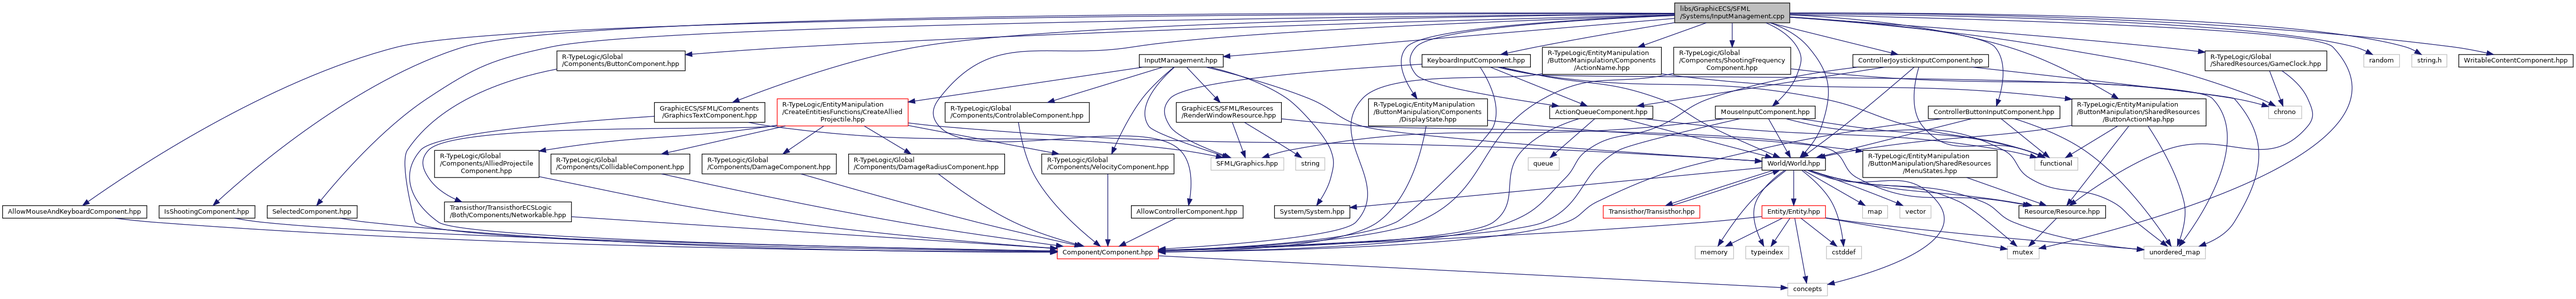
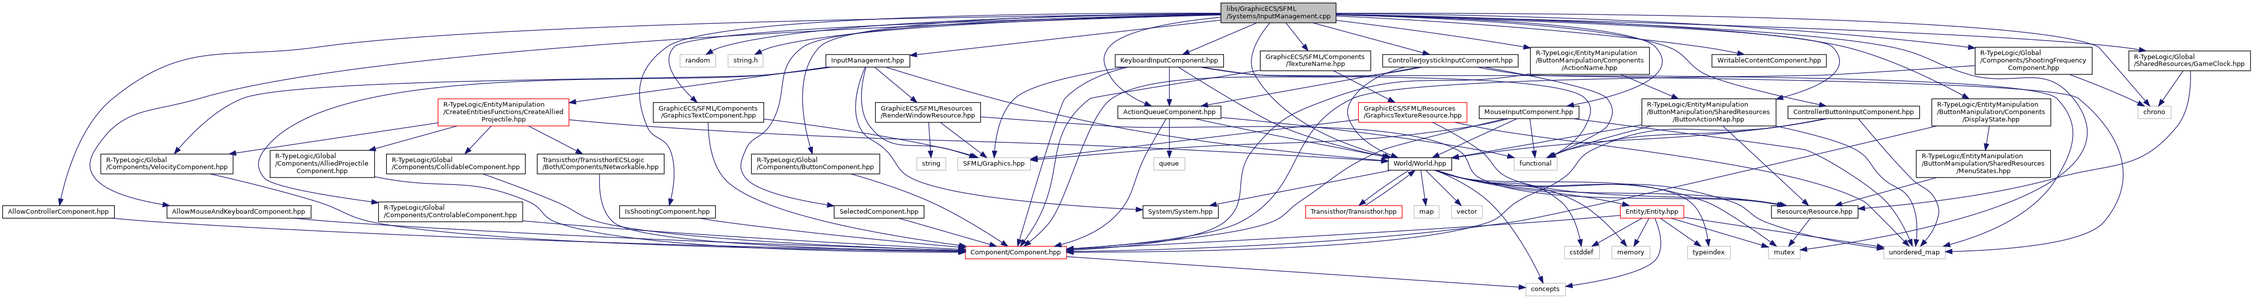
Deploying to gh-pages from @ R-Type-Epitech-Nantes/R-Type@a9325ae3ad3686e45d82f800c95eaac0cde15a89 🚀

diff --git a/dir_000017_000015.html b/dir_000017_000015.html
@@ -83,7 +83,7 @@ $(document).ready(function(){initNavTree('dir_cbf7d74840da66ee0c9a24bf60bc6994.h
 </div>
 
 <div class="contents">
-<h3>Systems &rarr; Components Relation</h3><table class="dirtab"><tr class="dirtab"><th class="dirtab">File in libs/GraphicECS/SFML/Systems</th><th class="dirtab">Includes file in libs/GraphicECS/SFML/Components</th></tr><tr class="dirtab"><td class="dirtab"><a class="el" href="_animation_system_8cpp.html">AnimationSystem.cpp</a></td><td class="dirtab"><a class="el" href="_animation_component_8hpp.html">AnimationComponent.hpp</a></td></tr><tr class="dirtab"><td class="dirtab"><a class="el" href="_animation_system_8cpp.html">AnimationSystem.cpp</a></td><td class="dirtab"><a class="el" href="_animation_frequency_component_8hpp.html">AnimationFrequencyComponent.hpp</a></td></tr><tr class="dirtab"><td class="dirtab"><a class="el" href="_animation_system_8cpp.html">AnimationSystem.cpp</a></td><td class="dirtab"><a class="el" href="_graphics_rectangle_component_8hpp.html">GraphicsRectangleComponent.hpp</a></td></tr><tr class="dirtab"><td class="dirtab"><a class="el" href="_draw_components_8cpp.html">DrawComponents.cpp</a></td><td class="dirtab"><a class="el" href="_animation_component_8hpp.html">AnimationComponent.hpp</a></td></tr><tr class="dirtab"><td class="dirtab"><a class="el" href="_draw_components_8cpp.html">DrawComponents.cpp</a></td><td class="dirtab"><a class="el" href="_animation_frequency_component_8hpp.html">AnimationFrequencyComponent.hpp</a></td></tr><tr class="dirtab"><td class="dirtab"><a class="el" href="_draw_components_8cpp.html">DrawComponents.cpp</a></td><td class="dirtab"><a class="el" href="_chat_message_component_8hpp.html">ChatMessageComponent.hpp</a></td></tr><tr class="dirtab"><td class="dirtab"><a class="el" href="_draw_components_8cpp.html">DrawComponents.cpp</a></td><td class="dirtab"><a class="el" href="_graphics_rectangle_component_8hpp.html">GraphicsRectangleComponent.hpp</a></td></tr><tr class="dirtab"><td class="dirtab"><a class="el" href="_draw_components_8cpp.html">DrawComponents.cpp</a></td><td class="dirtab"><a class="el" href="_graphics_text_component_8hpp.html">GraphicsTextComponent.hpp</a></td></tr><tr class="dirtab"><td class="dirtab"><a class="el" href="_draw_components_8cpp.html">DrawComponents.cpp</a></td><td class="dirtab"><a class="el" href="_texture_name_8hpp.html">TextureName.hpp</a></td></tr><tr class="dirtab"><td class="dirtab"><a class="el" href="_draw_components_8cpp.html">DrawComponents.cpp</a></td><td class="dirtab"><a class="el" href="_writable_content_component_8hpp.html">WritableContentComponent.hpp</a></td></tr><tr class="dirtab"><td class="dirtab"><a class="el" href="_input_management_8cpp.html">InputManagement.cpp</a></td><td class="dirtab"><a class="el" href="_action_queue_component_8hpp.html">ActionQueueComponent.hpp</a></td></tr><tr class="dirtab"><td class="dirtab"><a class="el" href="_input_management_8cpp.html">InputManagement.cpp</a></td><td class="dirtab"><a class="el" href="_allow_controller_component_8hpp.html">AllowControllerComponent.hpp</a></td></tr><tr class="dirtab"><td class="dirtab"><a class="el" href="_input_management_8cpp.html">InputManagement.cpp</a></td><td class="dirtab"><a class="el" href="_allow_mouse_and_keyboard_component_8hpp.html">AllowMouseAndKeyboardComponent.hpp</a></td></tr><tr class="dirtab"><td class="dirtab"><a class="el" href="_input_management_8cpp.html">InputManagement.cpp</a></td><td class="dirtab"><a class="el" href="_controller_button_input_component_8hpp.html">ControllerButtonInputComponent.hpp</a></td></tr><tr class="dirtab"><td class="dirtab"><a class="el" href="_input_management_8cpp.html">InputManagement.cpp</a></td><td class="dirtab"><a class="el" href="_controller_joystick_input_component_8hpp.html">ControllerJoystickInputComponent.hpp</a></td></tr><tr class="dirtab"><td class="dirtab"><a class="el" href="_input_management_8cpp.html">InputManagement.cpp</a></td><td class="dirtab"><a class="el" href="_graphics_text_component_8hpp.html">GraphicsTextComponent.hpp</a></td></tr><tr class="dirtab"><td class="dirtab"><a class="el" href="_input_management_8cpp.html">InputManagement.cpp</a></td><td class="dirtab"><a class="el" href="_is_shooting_component_8hpp.html">IsShootingComponent.hpp</a></td></tr><tr class="dirtab"><td class="dirtab"><a class="el" href="_input_management_8cpp.html">InputManagement.cpp</a></td><td class="dirtab"><a class="el" href="_keyboard_input_component_8hpp.html">KeyboardInputComponent.hpp</a></td></tr><tr class="dirtab"><td class="dirtab"><a class="el" href="_input_management_8cpp.html">InputManagement.cpp</a></td><td class="dirtab"><a class="el" href="_mouse_input_component_8hpp.html">MouseInputComponent.hpp</a></td></tr><tr class="dirtab"><td class="dirtab"><a class="el" href="_input_management_8cpp.html">InputManagement.cpp</a></td><td class="dirtab"><a class="el" href="_selected_component_8hpp.html">SelectedComponent.hpp</a></td></tr><tr class="dirtab"><td class="dirtab"><a class="el" href="_input_management_8cpp.html">InputManagement.cpp</a></td><td class="dirtab"><a class="el" href="_writable_content_component_8hpp.html">WritableContentComponent.hpp</a></td></tr><tr class="dirtab"><td class="dirtab"><a class="el" href="_music_management_8hpp.html">MusicManagement.hpp</a></td><td class="dirtab"><a class="el" href="_music_component_8hpp.html">MusicComponent.hpp</a></td></tr><tr class="dirtab"><td class="dirtab"><a class="el" href="_parallax_system_8cpp.html">ParallaxSystem.cpp</a></td><td class="dirtab"><a class="el" href="_parallax_component_8hpp.html">ParallaxComponent.hpp</a></td></tr><tr class="dirtab"><td class="dirtab"><a class="el" href="_remove_chat_system_8cpp.html">RemoveChatSystem.cpp</a></td><td class="dirtab"><a class="el" href="_chat_message_component_8hpp.html">ChatMessageComponent.hpp</a></td></tr><tr class="dirtab"><td class="dirtab"><a class="el" href="_remove_chat_system_8cpp.html">RemoveChatSystem.cpp</a></td><td class="dirtab"><a class="el" href="_chat_message_life_component_8hpp.html">ChatMessageLifeComponent.hpp</a></td></tr><tr class="dirtab"><td class="dirtab"><a class="el" href="_sf_object_follow_entity_system_8hpp.html">SfObjectFollowEntitySystem.hpp</a></td><td class="dirtab"><a class="el" href="_graphics_rectangle_component_8hpp.html">GraphicsRectangleComponent.hpp</a></td></tr><tr class="dirtab"><td class="dirtab"><a class="el" href="_sf_object_follow_entity_system_8hpp.html">SfObjectFollowEntitySystem.hpp</a></td><td class="dirtab"><a class="el" href="_graphics_text_component_8hpp.html">GraphicsTextComponent.hpp</a></td></tr><tr class="dirtab"><td class="dirtab"><a class="el" href="_sound_management_8hpp.html">SoundManagement.hpp</a></td><td class="dirtab"><a class="el" href="_sound_component_8hpp.html">SoundComponent.hpp</a></td></tr></table></div><!-- contents -->
+<h3>Systems &rarr; Components Relation</h3><table class="dirtab"><tr class="dirtab"><th class="dirtab">File in libs/GraphicECS/SFML/Systems</th><th class="dirtab">Includes file in libs/GraphicECS/SFML/Components</th></tr><tr class="dirtab"><td class="dirtab"><a class="el" href="_animation_system_8cpp.html">AnimationSystem.cpp</a></td><td class="dirtab"><a class="el" href="_animation_component_8hpp.html">AnimationComponent.hpp</a></td></tr><tr class="dirtab"><td class="dirtab"><a class="el" href="_animation_system_8cpp.html">AnimationSystem.cpp</a></td><td class="dirtab"><a class="el" href="_animation_frequency_component_8hpp.html">AnimationFrequencyComponent.hpp</a></td></tr><tr class="dirtab"><td class="dirtab"><a class="el" href="_animation_system_8cpp.html">AnimationSystem.cpp</a></td><td class="dirtab"><a class="el" href="_graphics_rectangle_component_8hpp.html">GraphicsRectangleComponent.hpp</a></td></tr><tr class="dirtab"><td class="dirtab"><a class="el" href="_draw_components_8cpp.html">DrawComponents.cpp</a></td><td class="dirtab"><a class="el" href="_animation_component_8hpp.html">AnimationComponent.hpp</a></td></tr><tr class="dirtab"><td class="dirtab"><a class="el" href="_draw_components_8cpp.html">DrawComponents.cpp</a></td><td class="dirtab"><a class="el" href="_animation_frequency_component_8hpp.html">AnimationFrequencyComponent.hpp</a></td></tr><tr class="dirtab"><td class="dirtab"><a class="el" href="_draw_components_8cpp.html">DrawComponents.cpp</a></td><td class="dirtab"><a class="el" href="_chat_message_component_8hpp.html">ChatMessageComponent.hpp</a></td></tr><tr class="dirtab"><td class="dirtab"><a class="el" href="_draw_components_8cpp.html">DrawComponents.cpp</a></td><td class="dirtab"><a class="el" href="_graphics_rectangle_component_8hpp.html">GraphicsRectangleComponent.hpp</a></td></tr><tr class="dirtab"><td class="dirtab"><a class="el" href="_draw_components_8cpp.html">DrawComponents.cpp</a></td><td class="dirtab"><a class="el" href="_graphics_text_component_8hpp.html">GraphicsTextComponent.hpp</a></td></tr><tr class="dirtab"><td class="dirtab"><a class="el" href="_draw_components_8cpp.html">DrawComponents.cpp</a></td><td class="dirtab"><a class="el" href="_texture_name_8hpp.html">TextureName.hpp</a></td></tr><tr class="dirtab"><td class="dirtab"><a class="el" href="_draw_components_8cpp.html">DrawComponents.cpp</a></td><td class="dirtab"><a class="el" href="_writable_content_component_8hpp.html">WritableContentComponent.hpp</a></td></tr><tr class="dirtab"><td class="dirtab"><a class="el" href="_input_management_8cpp.html">InputManagement.cpp</a></td><td class="dirtab"><a class="el" href="_action_queue_component_8hpp.html">ActionQueueComponent.hpp</a></td></tr><tr class="dirtab"><td class="dirtab"><a class="el" href="_input_management_8cpp.html">InputManagement.cpp</a></td><td class="dirtab"><a class="el" href="_allow_controller_component_8hpp.html">AllowControllerComponent.hpp</a></td></tr><tr class="dirtab"><td class="dirtab"><a class="el" href="_input_management_8cpp.html">InputManagement.cpp</a></td><td class="dirtab"><a class="el" href="_allow_mouse_and_keyboard_component_8hpp.html">AllowMouseAndKeyboardComponent.hpp</a></td></tr><tr class="dirtab"><td class="dirtab"><a class="el" href="_input_management_8cpp.html">InputManagement.cpp</a></td><td class="dirtab"><a class="el" href="_controller_button_input_component_8hpp.html">ControllerButtonInputComponent.hpp</a></td></tr><tr class="dirtab"><td class="dirtab"><a class="el" href="_input_management_8cpp.html">InputManagement.cpp</a></td><td class="dirtab"><a class="el" href="_controller_joystick_input_component_8hpp.html">ControllerJoystickInputComponent.hpp</a></td></tr><tr class="dirtab"><td class="dirtab"><a class="el" href="_input_management_8cpp.html">InputManagement.cpp</a></td><td class="dirtab"><a class="el" href="_graphics_text_component_8hpp.html">GraphicsTextComponent.hpp</a></td></tr><tr class="dirtab"><td class="dirtab"><a class="el" href="_input_management_8cpp.html">InputManagement.cpp</a></td><td class="dirtab"><a class="el" href="_is_shooting_component_8hpp.html">IsShootingComponent.hpp</a></td></tr><tr class="dirtab"><td class="dirtab"><a class="el" href="_input_management_8cpp.html">InputManagement.cpp</a></td><td class="dirtab"><a class="el" href="_keyboard_input_component_8hpp.html">KeyboardInputComponent.hpp</a></td></tr><tr class="dirtab"><td class="dirtab"><a class="el" href="_input_management_8cpp.html">InputManagement.cpp</a></td><td class="dirtab"><a class="el" href="_mouse_input_component_8hpp.html">MouseInputComponent.hpp</a></td></tr><tr class="dirtab"><td class="dirtab"><a class="el" href="_input_management_8cpp.html">InputManagement.cpp</a></td><td class="dirtab"><a class="el" href="_selected_component_8hpp.html">SelectedComponent.hpp</a></td></tr><tr class="dirtab"><td class="dirtab"><a class="el" href="_input_management_8cpp.html">InputManagement.cpp</a></td><td class="dirtab"><a class="el" href="_texture_name_8hpp.html">TextureName.hpp</a></td></tr><tr class="dirtab"><td class="dirtab"><a class="el" href="_input_management_8cpp.html">InputManagement.cpp</a></td><td class="dirtab"><a class="el" href="_writable_content_component_8hpp.html">WritableContentComponent.hpp</a></td></tr><tr class="dirtab"><td class="dirtab"><a class="el" href="_music_management_8hpp.html">MusicManagement.hpp</a></td><td class="dirtab"><a class="el" href="_music_component_8hpp.html">MusicComponent.hpp</a></td></tr><tr class="dirtab"><td class="dirtab"><a class="el" href="_parallax_system_8cpp.html">ParallaxSystem.cpp</a></td><td class="dirtab"><a class="el" href="_parallax_component_8hpp.html">ParallaxComponent.hpp</a></td></tr><tr class="dirtab"><td class="dirtab"><a class="el" href="_remove_chat_system_8cpp.html">RemoveChatSystem.cpp</a></td><td class="dirtab"><a class="el" href="_chat_message_component_8hpp.html">ChatMessageComponent.hpp</a></td></tr><tr class="dirtab"><td class="dirtab"><a class="el" href="_remove_chat_system_8cpp.html">RemoveChatSystem.cpp</a></td><td class="dirtab"><a class="el" href="_chat_message_life_component_8hpp.html">ChatMessageLifeComponent.hpp</a></td></tr><tr class="dirtab"><td class="dirtab"><a class="el" href="_sf_object_follow_entity_system_8hpp.html">SfObjectFollowEntitySystem.hpp</a></td><td class="dirtab"><a class="el" href="_graphics_rectangle_component_8hpp.html">GraphicsRectangleComponent.hpp</a></td></tr><tr class="dirtab"><td class="dirtab"><a class="el" href="_sf_object_follow_entity_system_8hpp.html">SfObjectFollowEntitySystem.hpp</a></td><td class="dirtab"><a class="el" href="_graphics_text_component_8hpp.html">GraphicsTextComponent.hpp</a></td></tr><tr class="dirtab"><td class="dirtab"><a class="el" href="_sound_management_8hpp.html">SoundManagement.hpp</a></td><td class="dirtab"><a class="el" href="_sound_component_8hpp.html">SoundComponent.hpp</a></td></tr></table></div><!-- contents -->
 </div><!-- doc-content -->
 <!-- start footer part -->
 <div id="nav-path" class="navpath"><!-- id is needed for treeview function! -->

diff --git a/_input_management_8cpp.html b/_input_management_8cpp.html
@@ -100,6 +100,7 @@ $(document).ready(function(){initNavTree('_input_management_8cpp.html',''); init
 <code>#include &quot;<a class="el" href="_controller_button_input_component_8hpp_source.html">ControllerButtonInputComponent.hpp</a>&quot;</code><br />
 <code>#include &quot;<a class="el" href="_controller_joystick_input_component_8hpp_source.html">ControllerJoystickInputComponent.hpp</a>&quot;</code><br />
 <code>#include &quot;<a class="el" href="_graphics_text_component_8hpp_source.html">GraphicECS/SFML/Components/GraphicsTextComponent.hpp</a>&quot;</code><br />
+<code>#include &quot;<a class="el" href="_texture_name_8hpp_source.html">GraphicECS/SFML/Components/TextureName.hpp</a>&quot;</code><br />
 <code>#include &quot;<a class="el" href="_is_shooting_component_8hpp_source.html">IsShootingComponent.hpp</a>&quot;</code><br />
 <code>#include &quot;<a class="el" href="_keyboard_input_component_8hpp_source.html">KeyboardInputComponent.hpp</a>&quot;</code><br />
 <code>#include &quot;<a class="el" href="_mouse_input_component_8hpp_source.html">MouseInputComponent.hpp</a>&quot;</code><br />
@@ -117,56 +118,56 @@ Include dependency graph for InputManagement.cpp:</div>
 <div class="dyncontent">
 <div class="center"><img src="_input_management_8cpp__incl.png" border="0" usemap="#alibs_2_graphic_e_c_s_2_s_f_m_l_2_systems_2_input_management_8cpp" alt=""/></div>
 <map name="alibs_2_graphic_e_c_s_2_s_f_m_l_2_systems_2_input_management_8cpp" id="alibs_2_graphic_e_c_s_2_s_f_m_l_2_systems_2_input_management_8cpp">
-<area shape="rect" title=" " alt="" coords="3376,5,3608,47"/>
-<area shape="rect" href="_input_management_8hpp.html" title=" " alt="" coords="2297,109,2466,136"/>
-<area shape="rect" title=" " alt="" coords="4047,496,4111,523"/>
-<area shape="rect" href="_world_8hpp.html" title=" " alt="" coords="3552,317,3680,344"/>
-<area shape="rect" title=" " alt="" coords="4573,213,4640,240"/>
-<area shape="rect" title=" " alt="" coords="4765,109,4837,136"/>
-<area shape="rect" title=" " alt="" coords="4862,109,4933,136"/>
-<area shape="rect" href="_action_queue_component_8hpp.html" title=" " alt="" coords="3124,213,3332,240"/>
-<area shape="rect" href="_allow_controller_component_8hpp.html" title=" " alt="" coords="2281,414,2506,441"/>
-<area shape="rect" href="_allow_mouse_and_keyboard_component_8hpp.html" title=" " alt="" coords="5,414,296,441"/>
-<area shape="rect" href="_controller_button_input_component_8hpp.html" title=" " alt="" coords="3887,213,4153,240"/>
-<area shape="rect" href="_controller_joystick_input_component_8hpp.html" title=" " alt="" coords="3735,109,4009,136"/>
-<area shape="rect" href="_graphics_text_component_8hpp.html" title=" " alt="" coords="1319,206,1542,247"/>
-<area shape="rect" href="_is_shooting_component_8hpp.html" title=" " alt="" coords="321,414,514,441"/>
-<area shape="rect" href="_keyboard_input_component_8hpp.html" title=" " alt="" coords="2867,109,3085,136"/>
-<area shape="rect" href="_mouse_input_component_8hpp.html" title=" " alt="" coords="3458,213,3659,240"/>
-<area shape="rect" href="_selected_component_8hpp.html" title=" " alt="" coords="539,414,720,441"/>
-<area shape="rect" href="_writable_content_component_8hpp.html" title=" " alt="" coords="4957,109,5187,136"/>
-<area shape="rect" href="_action_name_8hpp.html" title=" " alt="" coords="3109,95,3349,151"/>
-<area shape="rect" href="_button_action_map_8hpp.html" title=" " alt="" coords="4177,199,4447,255"/>
-<area shape="rect" href="_display_state_8hpp.html" title=" " alt="" coords="2759,199,2999,255"/>
-<area shape="rect" href="_button_component_8hpp.html" title=" " alt="" coords="1123,102,1381,143"/>
-<area shape="rect" href="_shooting_frequency_component_8hpp.html" title=" " alt="" coords="3374,95,3610,151"/>
-<area shape="rect" href="_game_clock_8hpp.html" title=" " alt="" coords="4445,102,4691,143"/>
-<area shape="rect" title=" " alt="" coords="2441,317,2588,344"/>
-<area shape="rect" href="_render_window_resource_8hpp.html" title=" " alt="" coords="2371,206,2583,247"/>
-<area shape="rect" href="_system_8hpp.html" title=" " alt="" coords="2569,414,2721,441"/>
-<area shape="rect" href="_create_allied_projectile_8hpp.html" title=" " alt="" coords="1567,199,1831,255"/>
-<area shape="rect" href="_velocity_component_8hpp.html" title=" " alt="" coords="2100,310,2367,351"/>
-<area shape="rect" href="_controlable_component_8hpp.html" title=" " alt="" coords="1905,206,2196,247"/>
-<area shape="rect" title=" " alt="" coords="2612,317,2671,344"/>
-<area shape="rect" href="_resource_8hpp.html" title=" " alt="" coords="4070,414,4245,441"/>
-<area shape="rect" title=" " alt="" coords="3604,571,3684,597"/>
-<area shape="rect" title=" " alt="" coords="3682,496,3753,523"/>
-<area shape="rect" title=" " alt="" coords="3755,414,3805,441"/>
-<area shape="rect" title=" " alt="" coords="3417,496,3495,523"/>
-<area shape="rect" title=" " alt="" coords="3519,496,3606,523"/>
-<area shape="rect" title=" " alt="" coords="3830,414,3893,441"/>
-<area shape="rect" href="_entity_8hpp.html" title=" " alt="" coords="3552,414,3680,441"/>
-<area shape="rect" title=" " alt="" coords="4322,496,4446,523"/>
-<area shape="rect" href="_transisthor_8hpp.html" title=" " alt="" coords="3232,414,3427,441"/>
-<area shape="rect" href="_component_8hpp.html" title=" " alt="" coords="2131,496,2335,523"/>
-<area shape="rect" href="_networkable_8hpp.html" title=" " alt="" coords="896,407,1152,448"/>
-<area shape="rect" href="_allied_projectile_component_8hpp.html" title=" " alt="" coords="876,303,1087,359"/>
-<area shape="rect" href="_collidable_component_8hpp.html" title=" " alt="" coords="1111,310,1391,351"/>
-<area shape="rect" href="_damage_component_8hpp.html" title=" " alt="" coords="1415,310,1686,351"/>
-<area shape="rect" href="_damage_radius_component_8hpp.html" title=" " alt="" coords="1711,310,2025,351"/>
-<area shape="rect" title=" " alt="" coords="4102,317,4189,344"/>
-<area shape="rect" title=" " alt="" coords="3081,317,3143,344"/>
-<area shape="rect" href="_menu_states_8hpp.html" title=" " alt="" coords="3755,303,4026,359"/>
+<area shape="rect" title=" " alt="" coords="2462,5,2694,47"/>
+<area shape="rect" href="_input_management_8hpp.html" title=" " alt="" coords="1665,109,1835,136"/>
+<area shape="rect" title=" " alt="" coords="3566,496,3630,523"/>
+<area shape="rect" href="_world_8hpp.html" title=" " alt="" coords="2799,317,2927,344"/>
+<area shape="rect" title=" " alt="" coords="4311,213,4378,240"/>
+<area shape="rect" title=" " alt="" coords="1371,109,1443,136"/>
+<area shape="rect" title=" " alt="" coords="1468,109,1539,136"/>
+<area shape="rect" href="_action_queue_component_8hpp.html" title=" " alt="" coords="2254,213,2462,240"/>
+<area shape="rect" href="_allow_controller_component_8hpp.html" title=" " alt="" coords="5,414,231,441"/>
+<area shape="rect" href="_allow_mouse_and_keyboard_component_8hpp.html" title=" " alt="" coords="337,414,627,441"/>
+<area shape="rect" href="_controller_button_input_component_8hpp.html" title=" " alt="" coords="3605,213,3871,240"/>
+<area shape="rect" href="_controller_joystick_input_component_8hpp.html" title=" " alt="" coords="2788,109,3061,136"/>
+<area shape="rect" href="_graphics_text_component_8hpp.html" title=" " alt="" coords="1317,206,1540,247"/>
+<area shape="rect" href="_texture_name_8hpp.html" title=" " alt="" coords="2541,102,2764,143"/>
+<area shape="rect" href="_is_shooting_component_8hpp.html" title=" " alt="" coords="1249,414,1443,441"/>
+<area shape="rect" href="_keyboard_input_component_8hpp.html" title=" " alt="" coords="2249,109,2467,136"/>
+<area shape="rect" href="_mouse_input_component_8hpp.html" title=" " alt="" coords="2983,213,3184,240"/>
+<area shape="rect" href="_selected_component_8hpp.html" title=" " alt="" coords="1682,414,1863,441"/>
+<area shape="rect" href="_writable_content_component_8hpp.html" title=" " alt="" coords="3452,109,3683,136"/>
+<area shape="rect" href="_action_name_8hpp.html" title=" " alt="" coords="3086,95,3326,151"/>
+<area shape="rect" href="_button_action_map_8hpp.html" title=" " alt="" coords="3311,199,3581,255"/>
+<area shape="rect" href="_display_state_8hpp.html" title=" " alt="" coords="3895,199,4135,255"/>
+<area shape="rect" href="_button_component_8hpp.html" title=" " alt="" coords="1515,310,1774,351"/>
+<area shape="rect" href="_shooting_frequency_component_8hpp.html" title=" " alt="" coords="3983,95,4219,151"/>
+<area shape="rect" href="_game_clock_8hpp.html" title=" " alt="" coords="4293,102,4538,143"/>
+<area shape="rect" title=" " alt="" coords="1931,317,2078,344"/>
+<area shape="rect" href="_render_window_resource_8hpp.html" title=" " alt="" coords="1765,206,1977,247"/>
+<area shape="rect" href="_system_8hpp.html" title=" " alt="" coords="2305,414,2457,441"/>
+<area shape="rect" href="_create_allied_projectile_8hpp.html" title=" " alt="" coords="883,199,1147,255"/>
+<area shape="rect" href="_velocity_component_8hpp.html" title=" " alt="" coords="203,310,470,351"/>
+<area shape="rect" href="_controlable_component_8hpp.html" title=" " alt="" coords="763,407,1054,448"/>
+<area shape="rect" title=" " alt="" coords="1849,317,1907,344"/>
+<area shape="rect" href="_resource_8hpp.html" title=" " alt="" coords="3572,414,3747,441"/>
+<area shape="rect" title=" " alt="" coords="3077,571,3157,597"/>
+<area shape="rect" title=" " alt="" coords="3155,496,3225,523"/>
+<area shape="rect" title=" " alt="" coords="2851,414,2902,441"/>
+<area shape="rect" title=" " alt="" coords="3250,496,3327,523"/>
+<area shape="rect" title=" " alt="" coords="3403,496,3489,523"/>
+<area shape="rect" title=" " alt="" coords="2927,414,2989,441"/>
+<area shape="rect" href="_entity_8hpp.html" title=" " alt="" coords="3267,414,3395,441"/>
+<area shape="rect" title=" " alt="" coords="3799,496,3923,523"/>
+<area shape="rect" href="_transisthor_8hpp.html" title=" " alt="" coords="2633,414,2827,441"/>
+<area shape="rect" href="_component_8hpp.html" title=" " alt="" coords="1947,496,2151,523"/>
+<area shape="rect" href="_networkable_8hpp.html" title=" " alt="" coords="1083,310,1339,351"/>
+<area shape="rect" href="_allied_projectile_component_8hpp.html" title=" " alt="" coords="545,303,755,359"/>
+<area shape="rect" href="_collidable_component_8hpp.html" title=" " alt="" coords="779,310,1059,351"/>
+<area shape="rect" title=" " alt="" coords="3053,317,3140,344"/>
+<area shape="rect" title=" " alt="" coords="2327,317,2389,344"/>
+<area shape="rect" href="_graphics_texture_resource_8hpp.html" title=" " alt="" coords="2739,206,2958,247"/>
+<area shape="rect" href="_menu_states_8hpp.html" title=" " alt="" coords="3864,303,4135,359"/>
 </map>
 </div>
 </div><table class="memberdecls">

diff --git a/_input_management_8hpp_source.html b/_input_management_8hpp_source.html
@@ -148,12 +148,12 @@ $(document).ready(function(){initNavTree('_input_management_8hpp_source.html',''
 <div class="ttc" id="aclassgraphic_e_c_s_1_1_s_f_m_l_1_1_resources_1_1_render_window_resource_html"><div class="ttname"><a href="classgraphic_e_c_s_1_1_s_f_m_l_1_1_resources_1_1_render_window_resource.html">graphicECS::SFML::Resources::RenderWindowResource</a></div><div class="ttdoc">This shared resource adds a window. It will used by graphics part to draw something on screen,...</div><div class="ttdef"><b>Definition:</b> RenderWindowResource.hpp:20</div></div>
 <div class="ttc" id="anamespacegraphic_e_c_s_1_1_s_f_m_l_1_1_systems_html"><div class="ttname"><a href="namespacegraphic_e_c_s_1_1_s_f_m_l_1_1_systems.html">graphicECS::SFML::Systems</a></div><div class="ttdef"><b>Definition:</b> AnimationSystem.hpp:15</div></div>
 <div class="ttc" id="astructgraphic_e_c_s_1_1_s_f_m_l_1_1_systems_1_1_input_management_html"><div class="ttname"><a href="structgraphic_e_c_s_1_1_s_f_m_l_1_1_systems_1_1_input_management.html">graphicECS::SFML::Systems::InputManagement</a></div><div class="ttdoc">This system class manage SFML input to link them to an action.</div><div class="ttdef"><b>Definition:</b> InputManagement.hpp:22</div></div>
-<div class="ttc" id="astructgraphic_e_c_s_1_1_s_f_m_l_1_1_systems_1_1_input_management_html_a04f7600766e60421c9fea24951246c1f"><div class="ttname"><a href="structgraphic_e_c_s_1_1_s_f_m_l_1_1_systems_1_1_input_management.html#a04f7600766e60421c9fea24951246c1f">graphicECS::SFML::Systems::InputManagement::run</a></div><div class="ttdeci">void run(World &amp;world) override final</div><div class="ttdoc">The run function of this system. It will be used by the world in the function runSystems.</div><div class="ttdef"><b>Definition:</b> InputManagement.cpp:119</div></div>
-<div class="ttc" id="astructgraphic_e_c_s_1_1_s_f_m_l_1_1_systems_1_1_input_management_html_a46bc9dfcf2ed9ec67f3a6932cfb2c784"><div class="ttname"><a href="structgraphic_e_c_s_1_1_s_f_m_l_1_1_systems_1_1_input_management.html#a46bc9dfcf2ed9ec67f3a6932cfb2c784">graphicECS::SFML::Systems::InputManagement::movePlayerX</a></div><div class="ttdeci">void movePlayerX(World &amp;world, float move)</div><div class="ttdoc">This function is called when a player move his Abscissa with a input.</div><div class="ttdef"><b>Definition:</b> InputManagement.cpp:204</div></div>
-<div class="ttc" id="astructgraphic_e_c_s_1_1_s_f_m_l_1_1_systems_1_1_input_management_html_a4906d50d826c6ff73f4efa75861c4621"><div class="ttname"><a href="structgraphic_e_c_s_1_1_s_f_m_l_1_1_systems_1_1_input_management.html#a4906d50d826c6ff73f4efa75861c4621">graphicECS::SFML::Systems::InputManagement::clickHandle</a></div><div class="ttdeci">void clickHandle(World &amp;world, float action)</div><div class="ttdoc">This function is called when a left click occurs.</div><div class="ttdef"><b>Definition:</b> InputManagement.cpp:253</div></div>
+<div class="ttc" id="astructgraphic_e_c_s_1_1_s_f_m_l_1_1_systems_1_1_input_management_html_a04f7600766e60421c9fea24951246c1f"><div class="ttname"><a href="structgraphic_e_c_s_1_1_s_f_m_l_1_1_systems_1_1_input_management.html#a04f7600766e60421c9fea24951246c1f">graphicECS::SFML::Systems::InputManagement::run</a></div><div class="ttdeci">void run(World &amp;world) override final</div><div class="ttdoc">The run function of this system. It will be used by the world in the function runSystems.</div><div class="ttdef"><b>Definition:</b> InputManagement.cpp:126</div></div>
+<div class="ttc" id="astructgraphic_e_c_s_1_1_s_f_m_l_1_1_systems_1_1_input_management_html_a46bc9dfcf2ed9ec67f3a6932cfb2c784"><div class="ttname"><a href="structgraphic_e_c_s_1_1_s_f_m_l_1_1_systems_1_1_input_management.html#a46bc9dfcf2ed9ec67f3a6932cfb2c784">graphicECS::SFML::Systems::InputManagement::movePlayerX</a></div><div class="ttdeci">void movePlayerX(World &amp;world, float move)</div><div class="ttdoc">This function is called when a player move his Abscissa with a input.</div><div class="ttdef"><b>Definition:</b> InputManagement.cpp:211</div></div>
+<div class="ttc" id="astructgraphic_e_c_s_1_1_s_f_m_l_1_1_systems_1_1_input_management_html_a4906d50d826c6ff73f4efa75861c4621"><div class="ttname"><a href="structgraphic_e_c_s_1_1_s_f_m_l_1_1_systems_1_1_input_management.html#a4906d50d826c6ff73f4efa75861c4621">graphicECS::SFML::Systems::InputManagement::clickHandle</a></div><div class="ttdeci">void clickHandle(World &amp;world, float action)</div><div class="ttdoc">This function is called when a left click occurs.</div><div class="ttdef"><b>Definition:</b> InputManagement.cpp:260</div></div>
 <div class="ttc" id="astructgraphic_e_c_s_1_1_s_f_m_l_1_1_systems_1_1_input_management_html_a723726019f6b4f094d4f04059d725b8a"><div class="ttname"><a href="structgraphic_e_c_s_1_1_s_f_m_l_1_1_systems_1_1_input_management.html#a723726019f6b4f094d4f04059d725b8a">graphicECS::SFML::Systems::InputManagement::exit</a></div><div class="ttdeci">void exit(World &amp;world)</div><div class="ttdoc">This function is called when a player wants to exit the game. It closes the window of the client.</div></div>
-<div class="ttc" id="astructgraphic_e_c_s_1_1_s_f_m_l_1_1_systems_1_1_input_management_html_a943766f535320c3dab0cfbd776563782"><div class="ttname"><a href="structgraphic_e_c_s_1_1_s_f_m_l_1_1_systems_1_1_input_management.html#a943766f535320c3dab0cfbd776563782">graphicECS::SFML::Systems::InputManagement::shootAction</a></div><div class="ttdeci">void shootAction(World &amp;world, float action)</div><div class="ttdoc">This function is called when a player shoot with a input. It creates a Ally Projectile.</div><div class="ttdef"><b>Definition:</b> InputManagement.cpp:236</div></div>
-<div class="ttc" id="astructgraphic_e_c_s_1_1_s_f_m_l_1_1_systems_1_1_input_management_html_ab2e0d37503f1c35964c47d6225029cec"><div class="ttname"><a href="structgraphic_e_c_s_1_1_s_f_m_l_1_1_systems_1_1_input_management.html#ab2e0d37503f1c35964c47d6225029cec">graphicECS::SFML::Systems::InputManagement::movePlayerY</a></div><div class="ttdeci">void movePlayerY(World &amp;world, float move)</div><div class="ttdoc">This function is called when a player move his Ordinate with a input.</div><div class="ttdef"><b>Definition:</b> InputManagement.cpp:220</div></div>
+<div class="ttc" id="astructgraphic_e_c_s_1_1_s_f_m_l_1_1_systems_1_1_input_management_html_a943766f535320c3dab0cfbd776563782"><div class="ttname"><a href="structgraphic_e_c_s_1_1_s_f_m_l_1_1_systems_1_1_input_management.html#a943766f535320c3dab0cfbd776563782">graphicECS::SFML::Systems::InputManagement::shootAction</a></div><div class="ttdeci">void shootAction(World &amp;world, float action)</div><div class="ttdoc">This function is called when a player shoot with a input. It creates a Ally Projectile.</div><div class="ttdef"><b>Definition:</b> InputManagement.cpp:243</div></div>
+<div class="ttc" id="astructgraphic_e_c_s_1_1_s_f_m_l_1_1_systems_1_1_input_management_html_ab2e0d37503f1c35964c47d6225029cec"><div class="ttname"><a href="structgraphic_e_c_s_1_1_s_f_m_l_1_1_systems_1_1_input_management.html#ab2e0d37503f1c35964c47d6225029cec">graphicECS::SFML::Systems::InputManagement::movePlayerY</a></div><div class="ttdeci">void movePlayerY(World &amp;world, float move)</div><div class="ttdoc">This function is called when a player move his Ordinate with a input.</div><div class="ttdef"><b>Definition:</b> InputManagement.cpp:227</div></div>
 </div><!-- fragment --></div><!-- contents -->
 </div><!-- doc-content -->
 <!-- start footer part -->

diff --git a/_button_action_8hpp_source.html b/_button_action_8hpp_source.html
@@ -114,9 +114,9 @@ $(document).ready(function(){initNavTree('_button_action_8hpp_source.html',''); 
 <div class="line"><a name="l00044"></a><span class="lineno">   44</span>&#160;<span class="preprocessor">#endif </span><span class="comment">/* !BUTTONACTION_HPP_ */</span><span class="preprocessor"></span></div>
 <div class="ttc" id="a_button_action_8hpp_html_a3ea91e938a05b40d22c3fe5e4e0b4e5d"><div class="ttname"><a href="_button_action_8hpp.html#a3ea91e938a05b40d22c3fe5e4e0b4e5d">pauseGame</a></div><div class="ttdeci">void pauseGame(World &amp;world, Entity &amp;entityPtr)</div><div class="ttdoc">Pause the game, changing the menu state resource.</div><div class="ttdef"><b>Definition:</b> ButtonAction.cpp:38</div></div>
 <div class="ttc" id="a_button_action_8hpp_html_a6375ef4598b4a132abe906fe3c7ace77"><div class="ttname"><a href="_button_action_8hpp.html#a6375ef4598b4a132abe906fe3c7ace77">exitWindow</a></div><div class="ttdeci">void exitWindow(World &amp;world, Entity &amp;entityPtr)</div><div class="ttdoc">Exit the windows by disconecting the client.</div><div class="ttdef"><b>Definition:</b> ButtonAction.cpp:26</div></div>
-<div class="ttc" id="a_button_action_8hpp_html_a689fcb9ef4253b89b170f837f5d09bb0"><div class="ttname"><a href="_button_action_8hpp.html#a689fcb9ef4253b89b170f837f5d09bb0">publishNewChatMessage</a></div><div class="ttdeci">void publishNewChatMessage(World &amp;world, Entity &amp;entityPtr, std::string &amp;message)</div><div class="ttdoc">publish a new message in the room chat</div><div class="ttdef"><b>Definition:</b> ButtonAction.cpp:104</div></div>
+<div class="ttc" id="a_button_action_8hpp_html_a689fcb9ef4253b89b170f837f5d09bb0"><div class="ttname"><a href="_button_action_8hpp.html#a689fcb9ef4253b89b170f837f5d09bb0">publishNewChatMessage</a></div><div class="ttdeci">void publishNewChatMessage(World &amp;world, Entity &amp;entityPtr, std::string &amp;message)</div><div class="ttdoc">publish a new message in the room chat</div><div class="ttdef"><b>Definition:</b> ButtonAction.cpp:111</div></div>
 <div class="ttc" id="a_button_action_8hpp_html_a6bee2d5bf9be209cbf638ef307b49799"><div class="ttname"><a href="_button_action_8hpp.html#a6bee2d5bf9be209cbf638ef307b49799">selectAWritable</a></div><div class="ttdeci">void selectAWritable(World &amp;world, Entity &amp;entityPtr)</div><div class="ttdoc">Select a writable entity, add / remove a selected component.</div><div class="ttdef"><b>Definition:</b> ButtonAction.cpp:60</div></div>
-<div class="ttc" id="a_button_action_8hpp_html_a9a6aa45a8f9a5171aceac9b3130ae601"><div class="ttname"><a href="_button_action_8hpp.html#a9a6aa45a8f9a5171aceac9b3130ae601">writableButtonAction</a></div><div class="ttdeci">void writableButtonAction(World &amp;world, Entity &amp;entityPtr)</div><div class="ttdoc">Get the content of associated writable entity and called the action function.</div><div class="ttdef"><b>Definition:</b> ButtonAction.cpp:86</div></div>
+<div class="ttc" id="a_button_action_8hpp_html_a9a6aa45a8f9a5171aceac9b3130ae601"><div class="ttname"><a href="_button_action_8hpp.html#a9a6aa45a8f9a5171aceac9b3130ae601">writableButtonAction</a></div><div class="ttdeci">void writableButtonAction(World &amp;world, Entity &amp;entityPtr)</div><div class="ttdoc">Get the content of associated writable entity and called the action function.</div><div class="ttdef"><b>Definition:</b> ButtonAction.cpp:93</div></div>
 <div class="ttc" id="a_button_action_8hpp_html_abca6cb649032d1ae6dc0cb63e7632673"><div class="ttname"><a href="_button_action_8hpp.html#abca6cb649032d1ae6dc0cb63e7632673">resumeGame</a></div><div class="ttdeci">void resumeGame(World &amp;world, Entity &amp;entityPtr)</div><div class="ttdoc">Resume the game, changing the menu state resource.</div><div class="ttdef"><b>Definition:</b> ButtonAction.cpp:49</div></div>
 <div class="ttc" id="a_world_8hpp_html"><div class="ttname"><a href="_world_8hpp.html">World.hpp</a></div></div>
 <div class="ttc" id="aclassecs_1_1_entity_html"><div class="ttname"><a href="classecs_1_1_entity.html">ecs::Entity</a></div><div class="ttdoc">This is the Entity Class for E.C.S. It stores the related Components The std::mutex inheritance is in...</div><div class="ttdef"><b>Definition:</b> Entity.hpp:25</div></div>

diff --git a/_graphics_texture_resource_8hpp.html b/_graphics_texture_resource_8hpp.html
@@ -112,17 +112,18 @@ This graph shows which files directly or indirectly include this file:</div>
 <div class="dyncontent">
 <div class="center"><img src="_graphics_texture_resource_8hpp__dep__incl.png" border="0" usemap="#alibs_2_graphic_e_c_s_2_s_f_m_l_2_resources_2_graphics_texture_resource_8hppdep" alt=""/></div>
 <map name="alibs_2_graphic_e_c_s_2_s_f_m_l_2_resources_2_graphics_texture_resource_8hppdep" id="alibs_2_graphic_e_c_s_2_s_f_m_l_2_resources_2_graphics_texture_resource_8hppdep">
-<area shape="rect" title=" " alt="" coords="592,5,883,47"/>
-<area shape="rect" href="_animation_component_8hpp.html" title=" " alt="" coords="192,95,475,136"/>
+<area shape="rect" title=" " alt="" coords="767,5,1057,47"/>
+<area shape="rect" href="_animation_component_8hpp.html" title=" " alt="" coords="232,95,515,136"/>
 <area shape="rect" href="_animation_system_8cpp.html" title=" " alt="" coords="5,184,235,225"/>
 <area shape="rect" href="_draw_components_8cpp.html" title=" " alt="" coords="259,184,488,225"/>
-<area shape="rect" href="_texture_name_8hpp.html" title=" " alt="" coords="549,95,776,136"/>
-<area shape="rect" href="_client_room_8cpp.html" title=" " alt="" coords="931,191,1098,218"/>
-<area shape="rect" href="_user_connection_8cpp.html" title=" " alt="" coords="712,191,907,218"/>
-<area shape="rect" href="_graphics_texture_resource_8cpp.html" title=" " alt="" coords="1118,95,1407,136"/>
-<area shape="rect" href="_client_room_8hpp.html" title=" " alt="" coords="925,102,1093,129"/>
+<area shape="rect" href="_texture_name_8hpp.html" title=" " alt="" coords="724,95,951,136"/>
+<area shape="rect" href="_client_room_8cpp.html" title=" " alt="" coords="1187,191,1354,218"/>
+<area shape="rect" href="_user_connection_8cpp.html" title=" " alt="" coords="968,191,1163,218"/>
+<area shape="rect" href="_graphics_texture_resource_8cpp.html" title=" " alt="" coords="1369,95,1658,136"/>
+<area shape="rect" href="_client_room_8hpp.html" title=" " alt="" coords="1176,102,1344,129"/>
+<area shape="rect" href="_input_management_8cpp.html" title=" " alt="" coords="712,184,944,225"/>
 <area shape="rect" href="_button_action_8cpp.html" title=" " alt="" coords="513,191,687,218"/>
-<area shape="rect" href="_client_2main_8cpp.html" title=" " alt="" coords="1122,191,1246,218"/>
+<area shape="rect" href="_client_2main_8cpp.html" title=" " alt="" coords="1378,191,1502,218"/>
 </map>
 </div>
 </div>

diff --git a/_texture_name_8hpp.html b/_texture_name_8hpp.html
@@ -114,11 +114,12 @@ This graph shows which files directly or indirectly include this file:</div>
 <div class="dyncontent">
 <div class="center"><img src="_texture_name_8hpp__dep__incl.png" border="0" usemap="#alibs_2_graphic_e_c_s_2_s_f_m_l_2_components_2_texture_name_8hppdep" alt=""/></div>
 <map name="alibs_2_graphic_e_c_s_2_s_f_m_l_2_components_2_texture_name_8hppdep" id="alibs_2_graphic_e_c_s_2_s_f_m_l_2_components_2_texture_name_8hppdep">
-<area shape="rect" title=" " alt="" coords="331,5,557,47"/>
+<area shape="rect" title=" " alt="" coords="489,5,716,47"/>
 <area shape="rect" href="_draw_components_8cpp.html" title=" " alt="" coords="5,95,235,136"/>
-<area shape="rect" href="_button_action_8cpp.html" title=" " alt="" coords="259,102,434,129"/>
-<area shape="rect" href="_client_room_8cpp.html" title=" " alt="" coords="458,102,625,129"/>
-<area shape="rect" href="_user_connection_8cpp.html" title=" " alt="" coords="649,102,844,129"/>
+<area shape="rect" href="_input_management_8cpp.html" title=" " alt="" coords="259,95,491,136"/>
+<area shape="rect" href="_button_action_8cpp.html" title=" " alt="" coords="515,102,690,129"/>
+<area shape="rect" href="_client_room_8cpp.html" title=" " alt="" coords="714,102,881,129"/>
+<area shape="rect" href="_user_connection_8cpp.html" title=" " alt="" coords="905,102,1100,129"/>
 </map>
 </div>
 </div>

diff --git a/dir_cbf7d74840da66ee0c9a24bf60bc6994.html b/dir_cbf7d74840da66ee0c9a24bf60bc6994.html
@@ -100,7 +100,7 @@ Directory dependency graph for Systems:</div>
 <area shape="rect" href="dir_000015_000006.html" title="22" alt="" coords="190,312,207,327"/>
 <area shape="rect" href="dir_cbf7d74840da66ee0c9a24bf60bc6994.html" title="Systems" alt="" coords="71,52,150,100"/>
 <area shape="rect" href="dir_000017_000016.html" title="5" alt="" coords="62,217,72,232"/>
-<area shape="rect" href="dir_000017_000015.html" title="28" alt="" coords="107,123,125,138"/>
+<area shape="rect" href="dir_000017_000015.html" title="29" alt="" coords="107,123,125,138"/>
 <area shape="rect" href="dir_549241b8e115e6634b5bc294a113a1b8.html" title="R&#45;TypeLogic" alt="" coords="181,148,280,196"/>
 <area shape="rect" href="dir_000017_000018.html" title="25" alt="" coords="184,123,201,137"/>
 <area shape="rect" href="dir_000017_000006.html" title="18" alt="" coords="238,325,255,339"/>

diff --git a/dir_1dde4ce7c8ef5019cfcd1a59b754ba0c.html b/dir_1dde4ce7c8ef5019cfcd1a59b754ba0c.html
@@ -99,7 +99,7 @@ Directory dependency graph for SFML:</div>
 <area shape="rect" href="dir_000015_000006.html" title="22" alt="" coords="176,323,194,338"/>
 <area shape="rect" href="dir_000016_000006.html" title="5" alt="" coords="151,325,161,340"/>
 <area shape="rect" href="dir_cbf7d74840da66ee0c9a24bf60bc6994.html" title="Systems" alt="" coords="38,63,117,111"/>
-<area shape="rect" href="dir_000017_000015.html" title="28" alt="" coords="105,131,122,146"/>
+<area shape="rect" href="dir_000017_000015.html" title="29" alt="" coords="105,131,122,146"/>
 <area shape="rect" href="dir_000017_000016.html" title="5" alt="" coords="72,227,82,242"/>
 <area shape="rect" href="dir_000017_000006.html" title="18" alt="" coords="201,327,219,342"/>
 <area shape="rect" href="dir_549241b8e115e6634b5bc294a113a1b8.html" title="R&#45;TypeLogic" alt="" coords="253,159,352,207"/>
